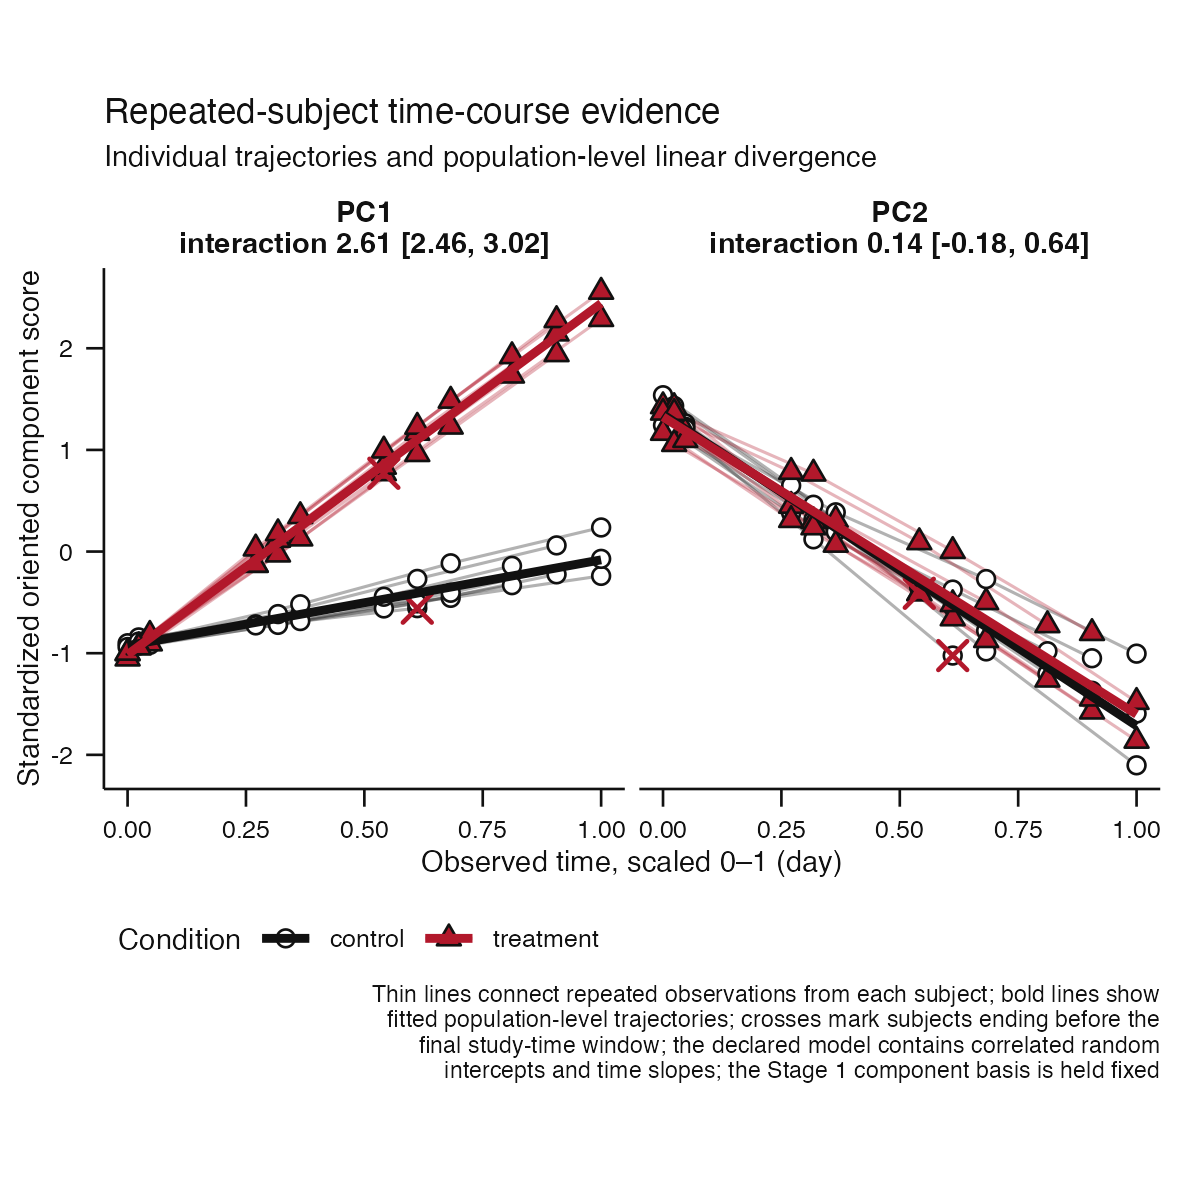
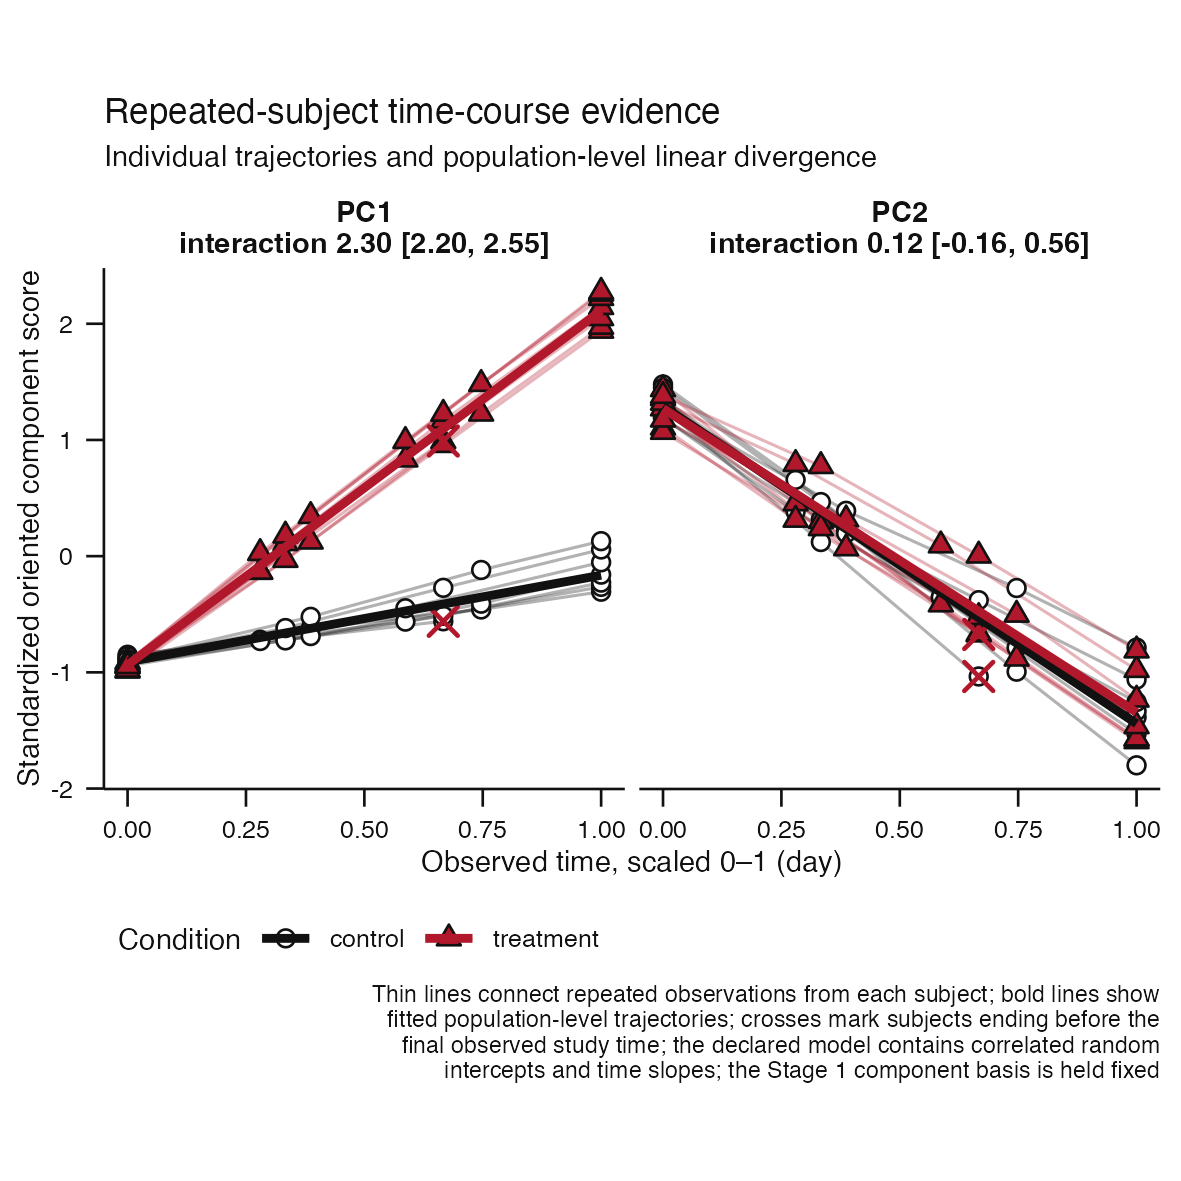
fix: clarify repeated-subject abstentions

diff --git a/.github/landing-proof/issue-82/README.md b/.github/landing-proof/issue-82/README.md
@@ -37,8 +37,8 @@ exploratory.
 |---|---|
 | ![Irregular observed times and early trajectory endpoints remain visible](irregular-dropout.png) | ![No proposal because the correlated random-effects covariance is singular](singular-abstention.png) |
 
-Crosses mark subjects whose last observation precedes the final study-time
-window. Fitted condition lines stop at the observed support of each condition.
+Crosses mark subjects whose last observation precedes the final observed study
+time. Fitted condition lines stop at the observed support of each condition.
 A singular random-effects covariance produces a typed abstention with native
 diagnostics. The strategy does not simplify to a random-intercept-only or
 independent-observation model.
